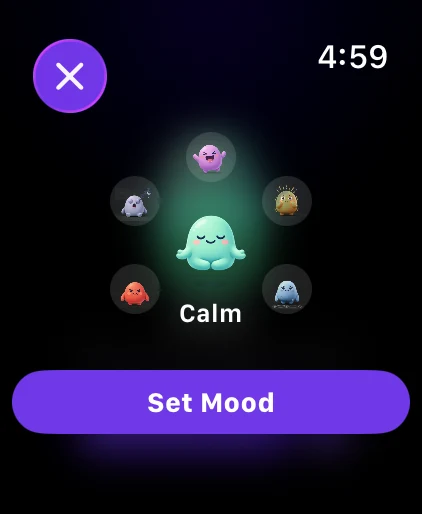
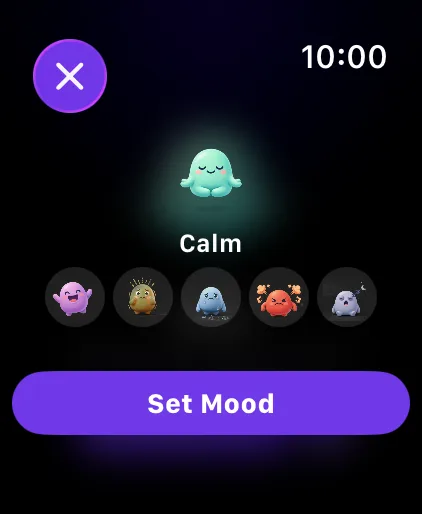
Website: show the row mood picker on Apple Watch

diff --git a/website/public/index.html b/website/public/index.html
@@ -81,13 +81,13 @@
       </article>
       <article class="feature" id="watch-mood">
         <div class="watch-steps">
-          <figure><div class="watch-shot"><img src="/img/watch/picker-1-center.webp" alt="Apple Watch mood picker with the Joy pal in the center and five other pals around it" width="422" height="514" loading="lazy"></div><figcaption><b>1</b> Your mood in the center</figcaption></figure>
-          <figure><div class="watch-shot"><img src="/img/watch/picker-2-swap.webp" alt="After tapping Calm, the Calm pal moves to the center and Joy takes its place in the circle" width="422" height="514" loading="lazy"></div><figcaption><b>2</b> Tap a mood to swap it in</figcaption></figure>
-          <figure><div class="watch-shot"><img src="/img/watch/picker-3-set.webp" alt="Mood set to Calm, with a green check" width="422" height="514" loading="lazy"></div><figcaption><b>3</b> Tap Set Mood</figcaption></figure>
+          <figure><div class="watch-shot"><img src="/img/watch/picker-1-center.webp?v=2" alt="Apple Watch mood picker with the big Joy pal on top, the word Joy below it and a row of the other five pals" width="422" height="514" loading="lazy"></div><figcaption><b>1</b> Your mood up top</figcaption></figure>
+          <figure><div class="watch-shot"><img src="/img/watch/picker-2-swap.webp?v=2" alt="After tapping Calm in the row, the big pal on top is now Calm and Joy is back in the row" width="422" height="514" loading="lazy"></div><figcaption><b>2</b> Tap a mood in the row</figcaption></figure>
+          <figure><div class="watch-shot"><img src="/img/watch/picker-3-set.webp?v=2" alt="Mood set to Calm, with a green check" width="422" height="514" loading="lazy"></div><figcaption><b>3</b> Tap Set Mood</figcaption></figure>
         </div>
-        <div><span class="kicker lilac">New: Pick your mood on Apple Watch</span><h3>Tap a pal to bring it to the center</h3>
-        <p>Tap your pal on the watch to change your mood. Your current mood sits big and animated in the middle, and the other five pals sit in a circle around it. Tap any of them, or turn the Digital Crown, and it swaps into the center so you can see it up close. Nothing changes until you tap Set Mood.</p>
-        <ul><li>Tap your pal to open the mood circle</li><li>Tap a mood to bring it to the center</li><li>Tap Set Mood to save it and share it with your Circle</li><li>Went back to your heart data on iPhone? Your watch follows too</li></ul></div>
+        <div><span class="kicker lilac">New: Pick your mood on Apple Watch</span><h3>Tap a pal to see it up close</h3>
+        <p>Tap your pal on the watch to change your mood. Your current mood sits big and animated at the top, with its name below and the other five pals in a row underneath. Tap any of them, or turn the Digital Crown, and it becomes the big pal so you can see it up close. Nothing changes until you tap Set Mood.</p>
+        <ul><li>Tap your pal to open the mood picker</li><li>Tap a mood in the row to see it up close</li><li>Tap Set Mood to save it and share it with your Circle</li><li>Went back to your heart data on iPhone? Your watch follows too</li></ul></div>
       </article>
       <article class="feature" id="family">
         <div class="phone" data-screen="family" data-slides="family-day,family-reactions,watches-tab,your-day,your-day-reactions"></div>
